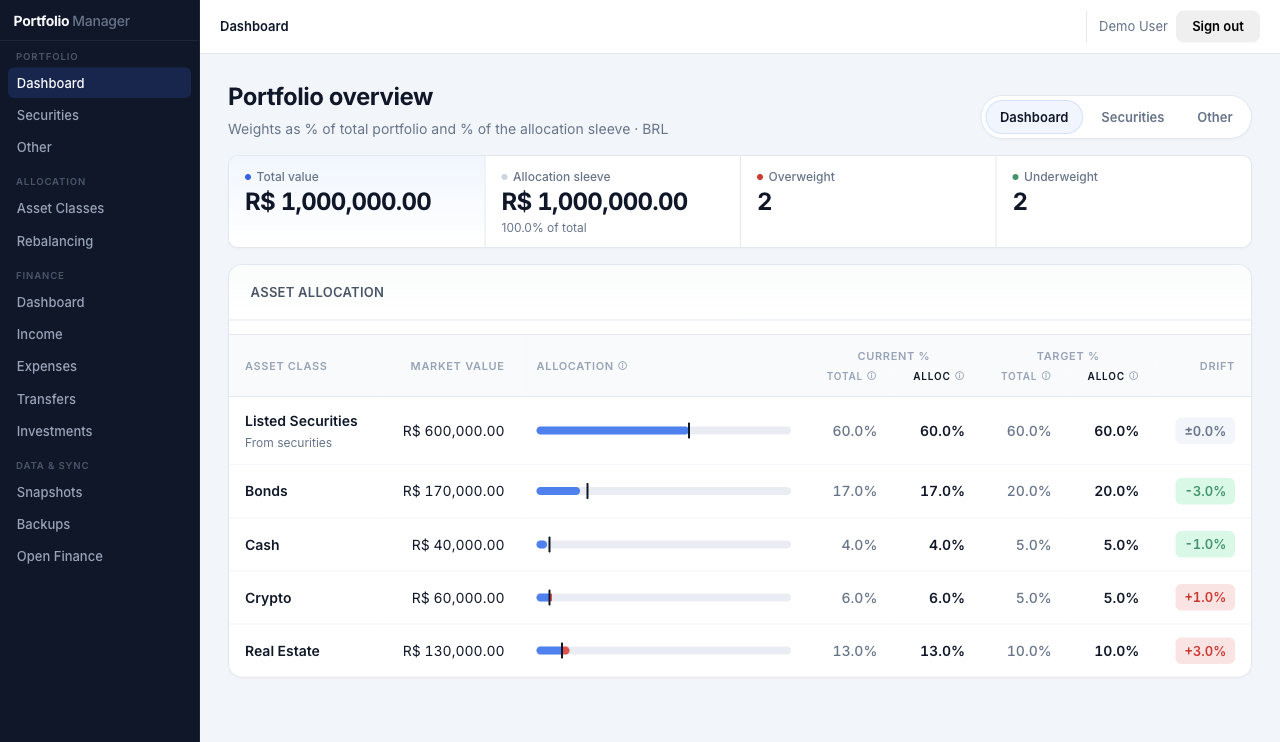
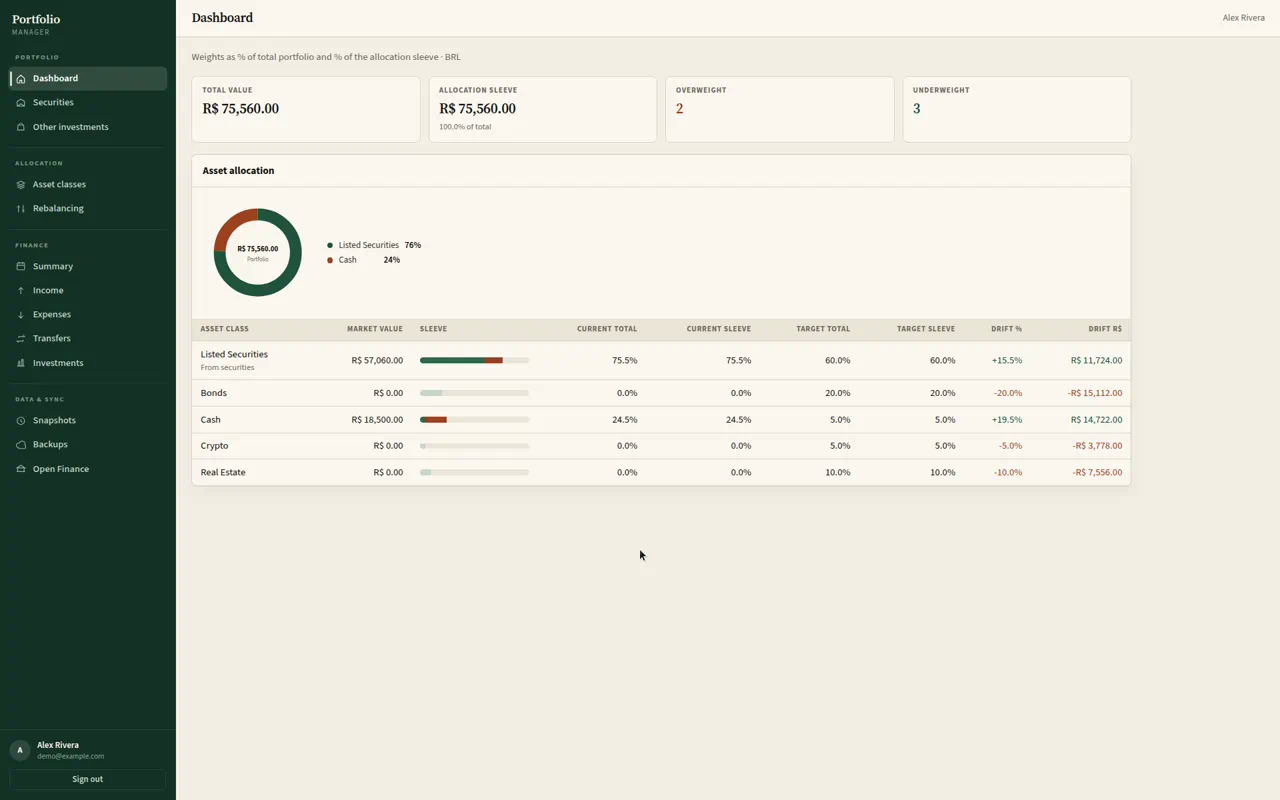
docs: refresh dashboard screenshot in readme
Replace the HTMX-era image with the current React dashboard and drop the outdated side/top nav mention.

diff --git a/README.md b/README.md
@@ -102,7 +102,7 @@ Year-scoped personal finance with month pills, year selector, and monthly charts
 ### Authentication and UI
 
 - Google OAuth sign-in; session cookie; sign out; first login creates an empty portfolio with default asset classes
-- Sidebar or top navigation layout (persisted in browser)
+- Grouped sidebar navigation with icons; drawer on small screens
 - Responsive tables, modal forms, and inline editing
 
 ## Tests
